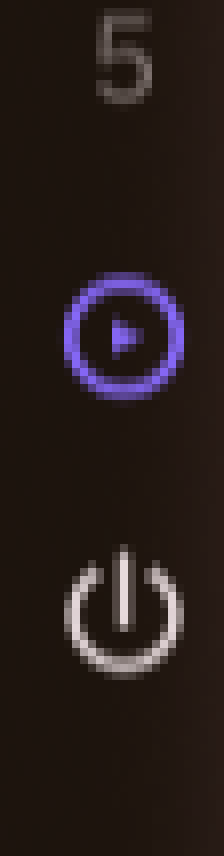
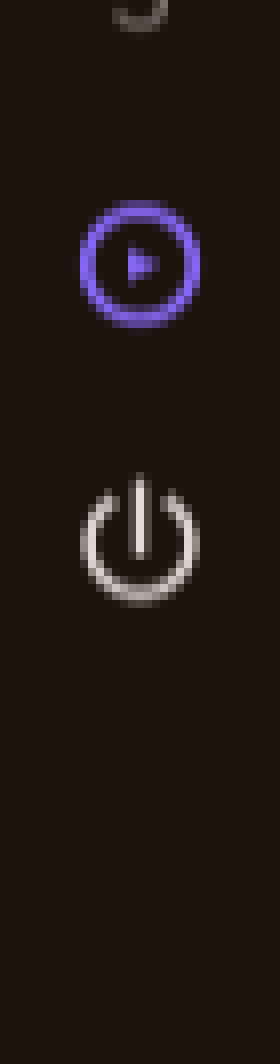
screenshots: crop the widget's own slot, not a hardcoded x
The bar-state shots were cut at x=919, a coordinate that belonged to a
neighbouring widget after the bar layout changed — so the README showed
somebody else's plugin ('2.17 | $0.00'). They now read the widget's geometry
from the shell, cut its own slot plus a little air, and pad every frame to one
canvas with the bar's own background so the five states line up.

- The vertical shot follows the same rule (the widget in its column).
- README tables use explicit widths, so the 760 px frames do not blow up the
  layout.
- acceptance 27/27.

Changed region(s): [[0.2812, 0.1822, 0.8438, 0.5771], [0.2812, 0.6379, 0.8438, 0.8201], [0.4062, 0.0, 0.6875, 0.1215]]

diff --git a/README.md b/README.md
@@ -102,15 +102,17 @@ The four states in motion (`idle → active → warning → countdown → paused
 </div>
 
 Bar states, cropped from real screenshots — dark (*ristretto*) on top, light
-(*Flexoki Light*) below:
+(*Flexoki Light*) below. Every frame is the widget's own slot, cut from the bar
+by `tools/screenshots.sh`; nothing is drawn by hand:
 
-| state | dark | light |
-|---|---|---|
-| idle (dimmed mark) | ![](assets/screenshots/dark/1-idle.png) | ![](assets/screenshots/light/1-idle.png) |
-| active | ![](assets/screenshots/dark/2-active.png) | ![](assets/screenshots/light/2-active.png) |
-| last 5 min (accent) | ![](assets/screenshots/dark/3-warning.png) | ![](assets/screenshots/light/3-warning.png) |
-| paused | ![](assets/screenshots/dark/4-paused.png) | ![](assets/screenshots/light/4-paused.png) |
-| countdown (urgent) | ![](assets/screenshots/dark/5-countdown.png) | ![](assets/screenshots/light/5-countdown.png) |
+<table>
+<tr><th align="left">state</th><th align="left">dark</th><th align="left">light</th></tr>
+<tr><td>idle</td><td><img src="assets/screenshots/dark/1-idle.png" width="230"></td><td><img src="assets/screenshots/light/1-idle.png" width="230"></td></tr>
+<tr><td>active</td><td><img src="assets/screenshots/dark/2-active.png" width="230"></td><td><img src="assets/screenshots/light/2-active.png" width="230"></td></tr>
+<tr><td>last 5 min</td><td><img src="assets/screenshots/dark/3-warning.png" width="230"></td><td><img src="assets/screenshots/light/3-warning.png" width="230"></td></tr>
+<tr><td>paused</td><td><img src="assets/screenshots/dark/4-paused.png" width="230"></td><td><img src="assets/screenshots/light/4-paused.png" width="230"></td></tr>
+<tr><td>countdown</td><td><img src="assets/screenshots/dark/5-countdown.png" width="230"></td><td><img src="assets/screenshots/light/5-countdown.png" width="230"></td></tr>
+</table>
 
 The countdown — the last thirty seconds, on top of everything, in the theme's
 own accent:
@@ -119,11 +121,15 @@ own accent:
 <img src="assets/screenshots/overlay-v3.png" alt="The countdown overlay: 00:29, Cancel and +5 minutes" width="460">
 </div>
 
-The overlay and the vertical bar layout:
+The overlay and the widget in a vertical bar:
 
-| countdown overlay | vertical bar |
-|---|---|
-| ![](assets/screenshots/dark/7-overlay.png) | ![](assets/screenshots/dark/8-vertical.png) |
+<table>
+<tr><th align="left">countdown overlay</th><th align="left">vertical bar</th></tr>
+<tr>
+<td><img src="assets/screenshots/dark/7-overlay.png" width="420"></td>
+<td><img src="assets/screenshots/dark/8-vertical.png" width="130"></td>
+</tr>
+</table>
 
 The overlay is the part that earns the plugin: **a large monospace countdown, a
 progress line, Отмена / Cancel and +5 минут / +5 minutes**, with `Esc` and
